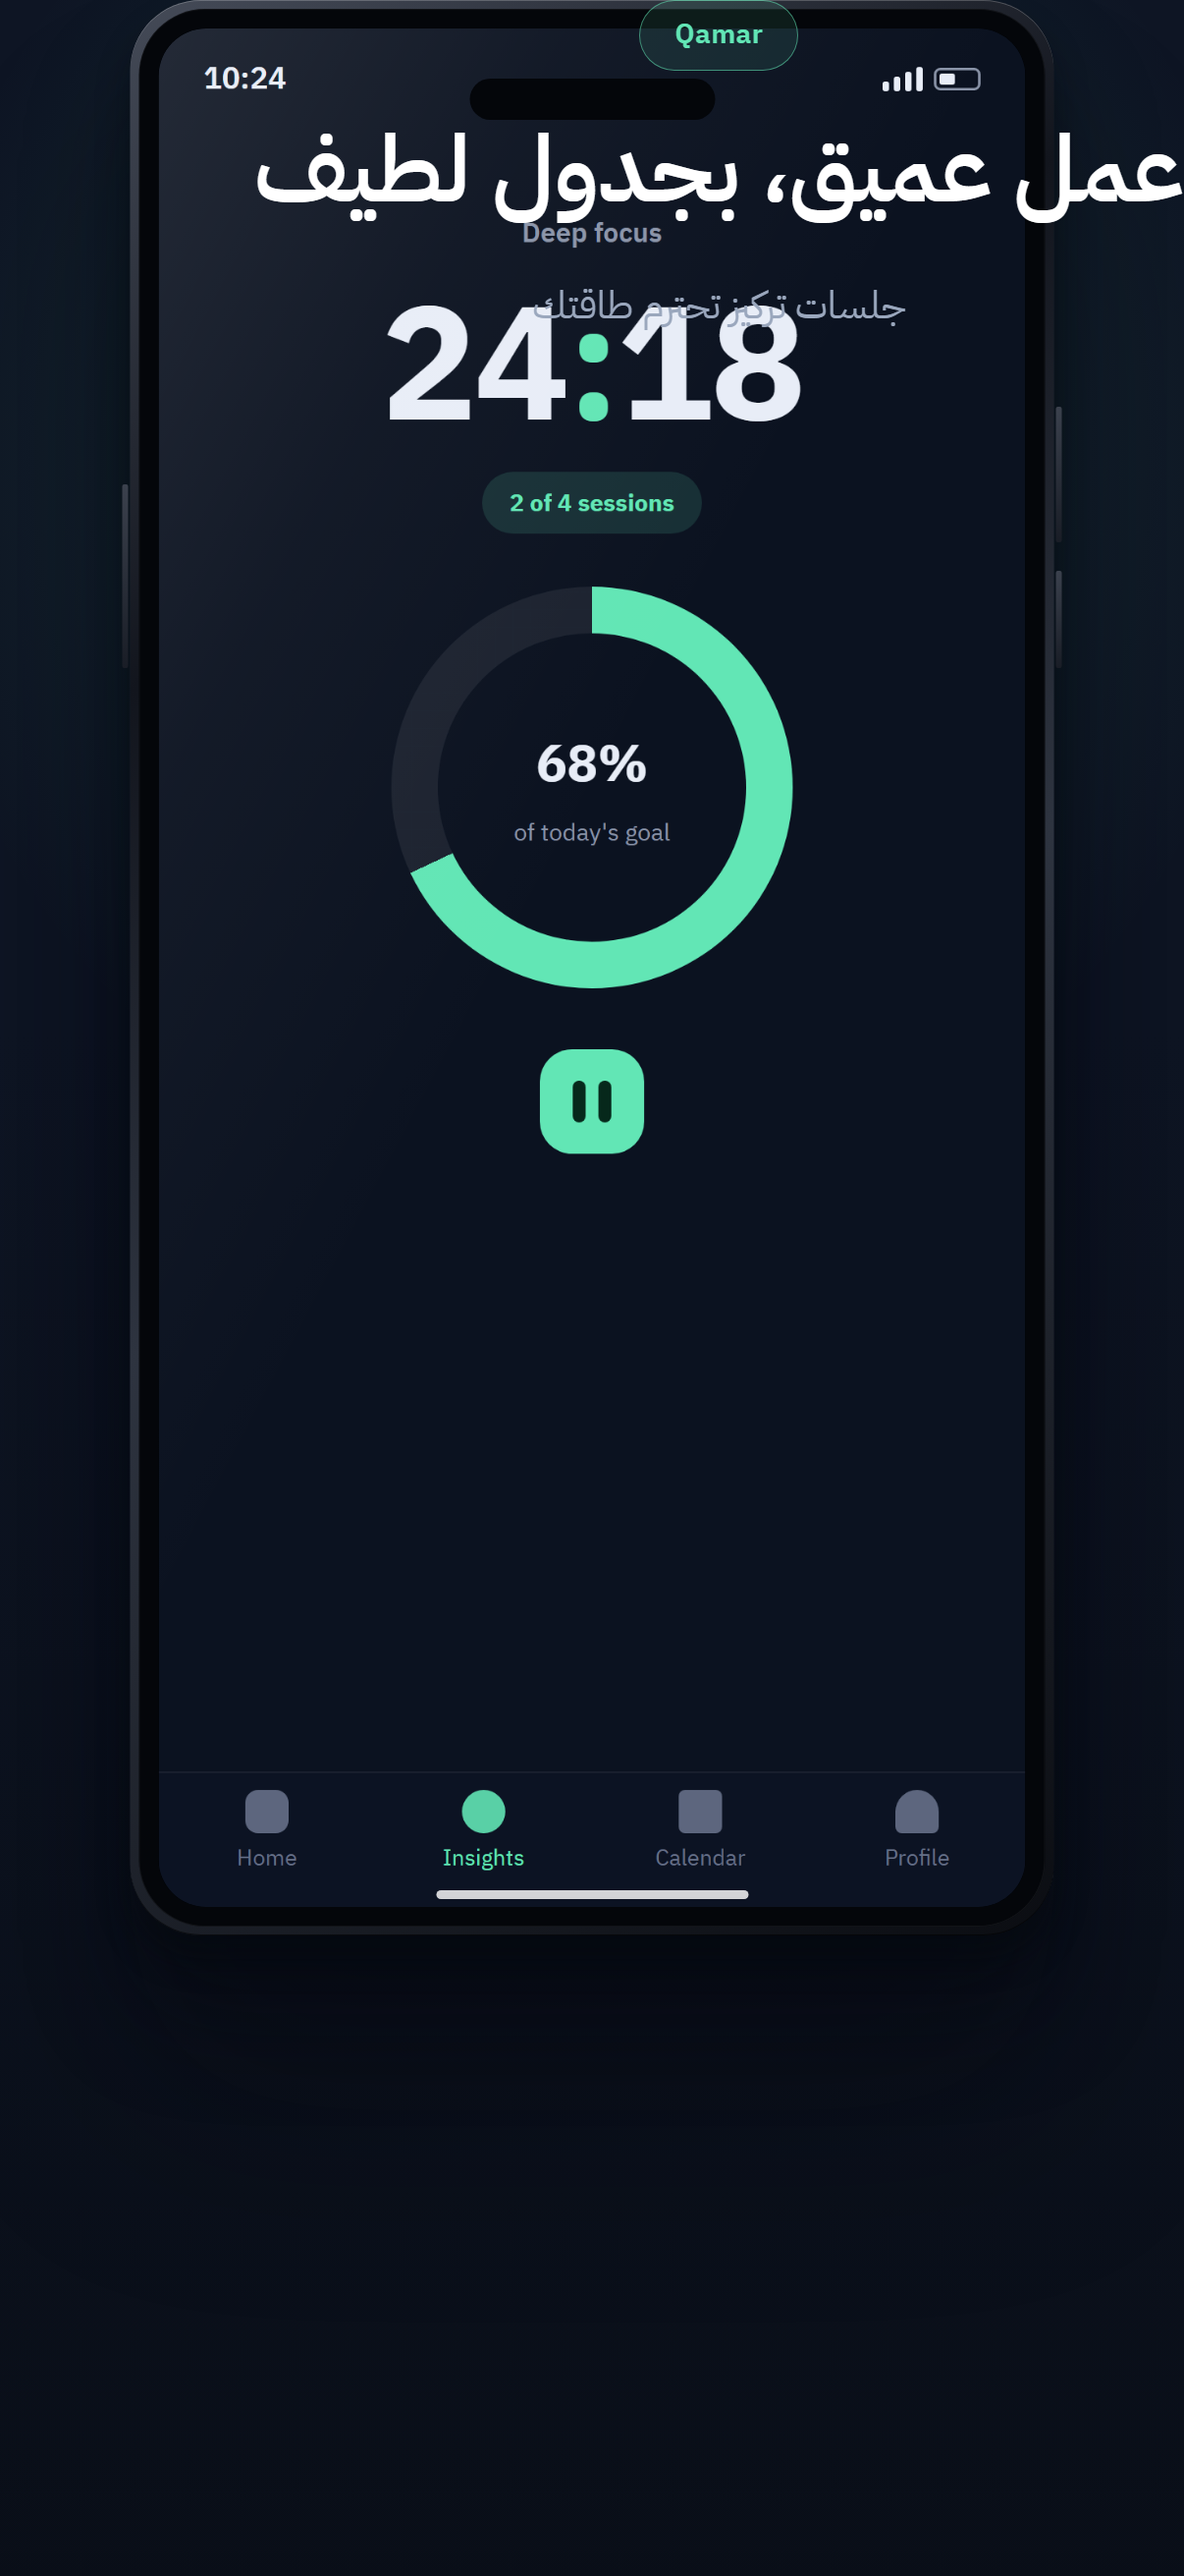
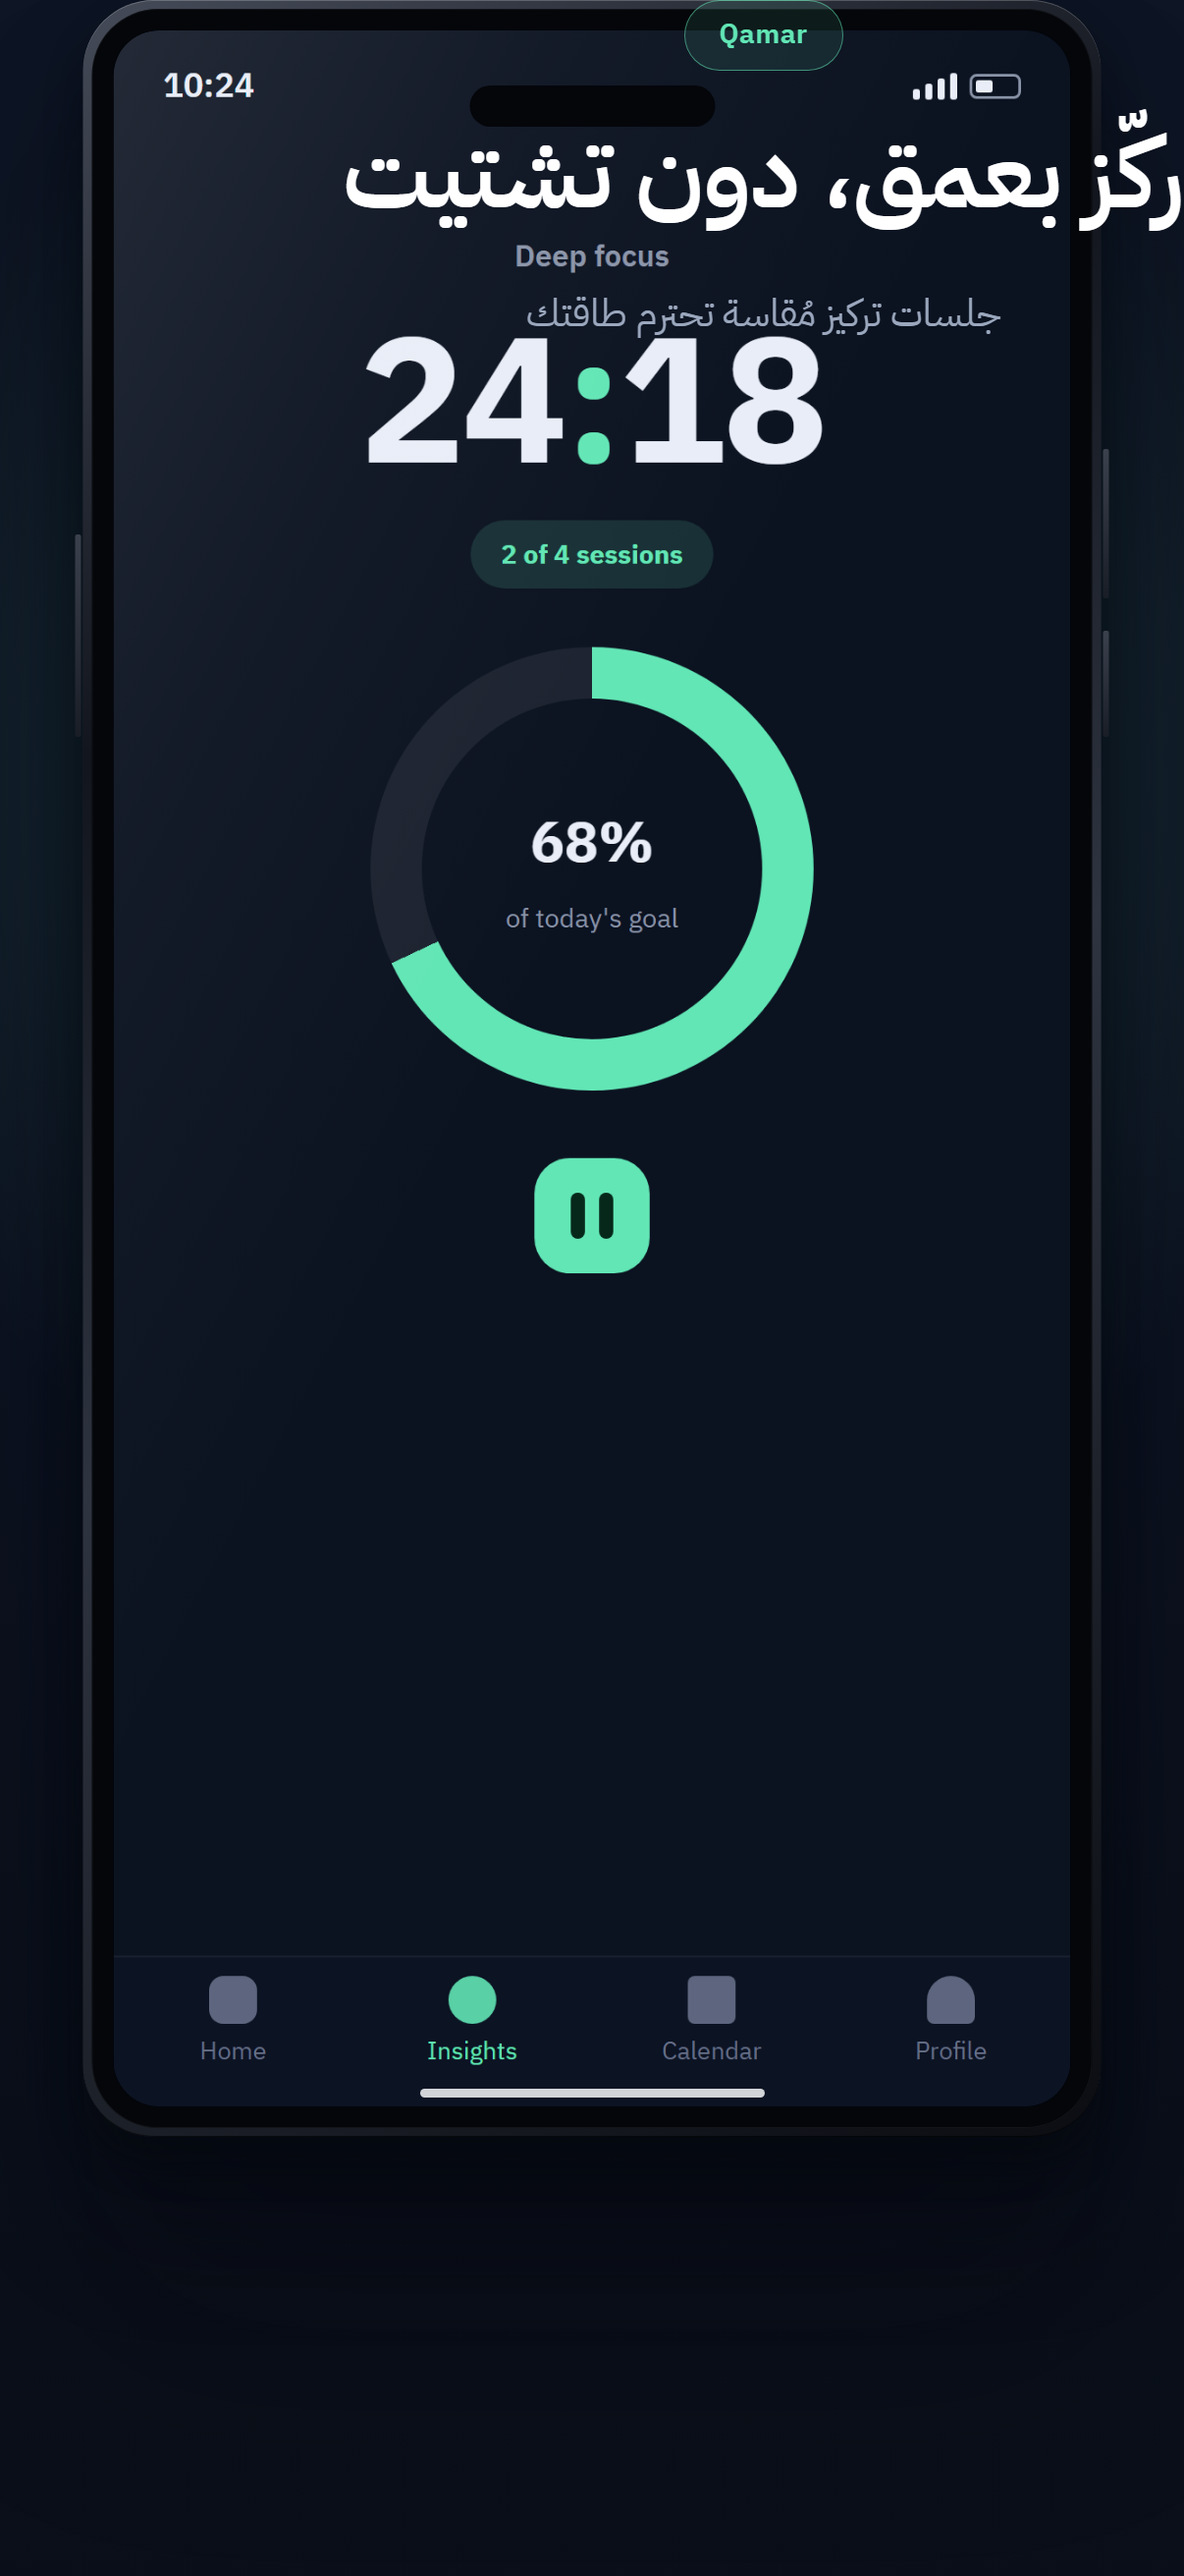
Refine AR cinematic frame: stronger headline, larger device, punchier copy
- Variant B device up to 86% width / 92% height (zones unchanged: headline
  band reserved, bottom bleed kept) — timer, ring and nav clearly legible
- Arabic title scale up to w*0.084 (~101px) with the 3-line budget kept;
  key light strengthened behind the device zone, deeper floor gradient
- Deep-work Arabic copy rewritten to natural marketing language:
  'ركّز بعمق، دون تشتيت' / 'جلسات تركيز مُقاسة تحترم طاقتك'
- EN frames regenerated with the same refinement; AR/04 inspected at full
  resolution — zero collisions, thumbnail-readable headline, launch-ready

diff --git a/src/templates/cinematic.ts b/src/templates/cinematic.ts
@@ -248,8 +248,8 @@ function renderPortraitB(ctx: TemplateContext) {
   const device = renderDevice({
     image: ctx.image,
     mode,
-    maxWidth: w * 0.78 * deviceScale,
-    maxHeight: h * 0.84 * deviceScale,
+    maxWidth: w * 0.86 * deviceScale,
+    maxHeight: h * 0.92 * deviceScale,
   });
 
   const head = headline({
@@ -258,7 +258,7 @@ function renderPortraitB(ctx: TemplateContext) {
     style: "cinematic",
     kicker: "chip",
     align: "center",
-    sizes: { kicker: w * 0.023, title: w * 0.078, subtitle: w * 0.032 },
+    sizes: { kicker: w * 0.023, title: w * 0.084, subtitle: w * 0.032 },
     lines: { title: 3, subtitle: 2 },
     scale: headlineScale,
     subtitleMaxWidth: w * 0.74,
@@ -267,7 +267,7 @@ function renderPortraitB(ctx: TemplateContext) {
   const css = [
     ".shot-cinematic.b {",
     "  background:",
-    "    radial-gradient(90% 45% at 50% 18%, " + tokens.accentGlow(0.17) + " 0%, transparent 65%),",
+    "    radial-gradient(95% 50% at 50% 30%, " + tokens.accentGlow(0.22) + " 0%, transparent 68%),",
     "    linear-gradient(" + tokens.bg + " 40%, " + darken(tokens.bg, 0.5) + " 130%);",
     "  " + headlineVars(tokens, "cinematic", h * 0.018, h * 0.02),
     "}",
